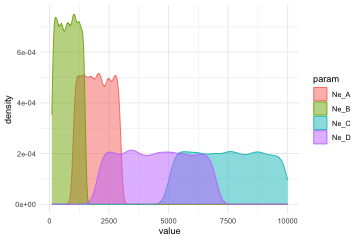
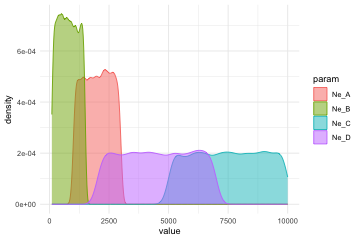
Update home

diff --git a/docs/index.html b/docs/index.html
@@ -69,7 +69,6 @@
 </div>
 <!-- badges: start -->
 
-
 <!-- badges: end -->
 <p>⚠⚠⚠</p>
 <p><strong>Please note that until a peer reviewed publication describing the <em>demografr</em> package is published, the software should be regarded as experimental and potentially unstable.</strong></p>
@@ -345,7 +344,7 @@
 <span><span class="co">#&gt; ╔═══════════════════════════╗</span></span>
 <span><span class="co">#&gt; ║TreeSequence               ║</span></span>
 <span><span class="co">#&gt; ╠═══════════════╤═══════════╣</span></span>
-<span><span class="co">#&gt; ║Trees          │      1,539║</span></span>
+<span><span class="co">#&gt; ║Trees          │      1,880║</span></span>
 <span><span class="co">#&gt; ╟───────────────┼───────────╢</span></span>
 <span><span class="co">#&gt; ║Sequence Length│  1,000,000║</span></span>
 <span><span class="co">#&gt; ╟───────────────┼───────────╢</span></span>
@@ -353,26 +352,26 @@
 <span><span class="co">#&gt; ╟───────────────┼───────────╢</span></span>
 <span><span class="co">#&gt; ║Sample Nodes   │        200║</span></span>
 <span><span class="co">#&gt; ╟───────────────┼───────────╢</span></span>
-<span><span class="co">#&gt; ║Total Size     │  444.2 KiB║</span></span>
+<span><span class="co">#&gt; ║Total Size     │  530.2 KiB║</span></span>
 <span><span class="co">#&gt; ╚═══════════════╧═══════════╝</span></span>
 <span><span class="co">#&gt; ╔═══════════╤═════╤═════════╤════════════╗</span></span>
 <span><span class="co">#&gt; ║Table      │Rows │Size     │Has Metadata║</span></span>
 <span><span class="co">#&gt; ╠═══════════╪═════╪═════════╪════════════╣</span></span>
-<span><span class="co">#&gt; ║Edges      │7,027│219.6 KiB│          No║</span></span>
+<span><span class="co">#&gt; ║Edges      │8,353│261.0 KiB│          No║</span></span>
 <span><span class="co">#&gt; ╟───────────┼─────┼─────────┼────────────╢</span></span>
 <span><span class="co">#&gt; ║Individuals│  100│  2.8 KiB│          No║</span></span>
 <span><span class="co">#&gt; ╟───────────┼─────┼─────────┼────────────╢</span></span>
 <span><span class="co">#&gt; ║Migrations │    0│  8 Bytes│          No║</span></span>
 <span><span class="co">#&gt; ╟───────────┼─────┼─────────┼────────────╢</span></span>
-<span><span class="co">#&gt; ║Mutations  │1,699│ 61.4 KiB│          No║</span></span>
+<span><span class="co">#&gt; ║Mutations  │2,164│ 78.2 KiB│          No║</span></span>
 <span><span class="co">#&gt; ╟───────────┼─────┼─────────┼────────────╢</span></span>
-<span><span class="co">#&gt; ║Nodes      │2,167│ 59.3 KiB│          No║</span></span>
+<span><span class="co">#&gt; ║Nodes      │2,391│ 65.4 KiB│          No║</span></span>
 <span><span class="co">#&gt; ╟───────────┼─────┼─────────┼────────────╢</span></span>
 <span><span class="co">#&gt; ║Populations│    4│331 Bytes│         Yes║</span></span>
 <span><span class="co">#&gt; ╟───────────┼─────┼─────────┼────────────╢</span></span>
 <span><span class="co">#&gt; ║Provenances│    2│  3.3 KiB│          No║</span></span>
 <span><span class="co">#&gt; ╟───────────┼─────┼─────────┼────────────╢</span></span>
-<span><span class="co">#&gt; ║Sites      │1,696│ 41.4 KiB│          No║</span></span>
+<span><span class="co">#&gt; ║Sites      │2,161│ 52.8 KiB│          No║</span></span>
 <span><span class="co">#&gt; ╚═══════════╧═════╧═════════╧════════════╝</span></span></code></pre></div>
 <p>With this one simulation data instance <code>ts</code> (in this case, a tree-sequence object of which the above-mentioned function <code><a href="reference/simulate_abc.html">simulate_abc()</a></code> would produce millions, making troubleshooting challenging and slow), we can apply individual summary statistic functions using another helper function <code><a href="reference/summarise_data.html">summarise_data()</a></code>:</p>
 <div class="sourceCode" id="cb15"><pre class="downlit sourceCode r">
@@ -381,27 +380,27 @@
 <span><span class="co">#&gt; # A tibble: 4 × 2</span></span>
 <span><span class="co">#&gt;   set   diversity</span></span>
 <span><span class="co">#&gt;   &lt;chr&gt;     &lt;dbl&gt;</span></span>
-<span><span class="co">#&gt; 1 A     0.0000480</span></span>
-<span><span class="co">#&gt; 2 B     0.0000487</span></span>
-<span><span class="co">#&gt; 3 C     0.000118 </span></span>
-<span><span class="co">#&gt; 4 D     0.0000885</span></span>
+<span><span class="co">#&gt; 1 A     0.0000797</span></span>
+<span><span class="co">#&gt; 2 B     0.0000587</span></span>
+<span><span class="co">#&gt; 3 C     0.000156 </span></span>
+<span><span class="co">#&gt; 4 D     0.000154 </span></span>
 <span><span class="co">#&gt; </span></span>
 <span><span class="co">#&gt; $divergence</span></span>
 <span><span class="co">#&gt; # A tibble: 6 × 3</span></span>
 <span><span class="co">#&gt;   x     y     divergence</span></span>
 <span><span class="co">#&gt;   &lt;chr&gt; &lt;chr&gt;      &lt;dbl&gt;</span></span>
-<span><span class="co">#&gt; 1 A     B       0.000188</span></span>
-<span><span class="co">#&gt; 2 A     C       0.000195</span></span>
-<span><span class="co">#&gt; 3 A     D       0.000191</span></span>
-<span><span class="co">#&gt; 4 B     C       0.000108</span></span>
-<span><span class="co">#&gt; 5 B     D       0.000108</span></span>
-<span><span class="co">#&gt; 6 C     D       0.000115</span></span>
+<span><span class="co">#&gt; 1 A     B       0.000237</span></span>
+<span><span class="co">#&gt; 2 A     C       0.000247</span></span>
+<span><span class="co">#&gt; 3 A     D       0.000247</span></span>
+<span><span class="co">#&gt; 4 B     C       0.000168</span></span>
+<span><span class="co">#&gt; 5 B     D       0.000194</span></span>
+<span><span class="co">#&gt; 6 C     D       0.000188</span></span>
 <span><span class="co">#&gt; </span></span>
 <span><span class="co">#&gt; $f4</span></span>
 <span><span class="co">#&gt; # A tibble: 1 × 5</span></span>
-<span><span class="co">#&gt;   W     X     Y     Z              f4</span></span>
-<span><span class="co">#&gt;   &lt;chr&gt; &lt;chr&gt; &lt;chr&gt; &lt;chr&gt;       &lt;dbl&gt;</span></span>
-<span><span class="co">#&gt; 1 A     B     C     D     -0.00000215</span></span></code></pre></div>
+<span><span class="co">#&gt;   W     X     Y     Z             f4</span></span>
+<span><span class="co">#&gt;   &lt;chr&gt; &lt;chr&gt; &lt;chr&gt; &lt;chr&gt;      &lt;dbl&gt;</span></span>
+<span><span class="co">#&gt; 1 A     B     C     D     -0.0000130</span></span></code></pre></div>
 <p>By comparing the format of this result to the observed data (given in the list <code>observed</code> at the beginning of this page), we can make sure that both simulated and observed summary statistics are mutually compatible, and can be thus directly compared in later steps of the ABC workflow.</p>
 <p><strong>See <a href="https://bodkan.net/demografr/reference/">the reference</a> for a complete overview of the functionality of this package.</strong></p>
 </div>

diff --git a/README.md b/README.md
@@ -6,9 +6,7 @@
 
 <!-- badges: start -->
 
-[![CRAN-version](https://www.r-pkg.org/badges/version/slendr)](https://cran.r-project.org/package=slendr) [![CRAN-downloads](https://cranlogs.r-pkg.org/badges/grand-total/slendr)](https://cran.r-project.org/package=slendr)
-
-[![R-CMD-check](https://github.com/bodkan/demografr/workflows/R-CMD-check/badge.svg)](https://github.com/bodkan/demografr/actions) [![Binder](http://mybinder.org/badge.svg)](http://beta.mybinder.org/v2/gh/bodkan/demografr/main?urlpath=rstudio) [![Coverage status](https://codecov.io/gh/bodkan/demografr/branch/main/graph/badge.svg)](https://app.codecov.io/github/bodkan/demografr?branch=main)
+[![CRAN-version](https://www.r-pkg.org/badges/version/slendr)](https://cran.r-project.org/package=slendr) [![CRAN-downloads](https://cranlogs.r-pkg.org/badges/grand-total/slendr)](https://cran.r-project.org/package=slendr) [![R-CMD-check](https://github.com/bodkan/demografr/workflows/R-CMD-check/badge.svg)](https://github.com/bodkan/demografr/actions) [![Binder](http://mybinder.org/badge.svg)](http://beta.mybinder.org/v2/gh/bodkan/demografr/main?urlpath=rstudio) [![Coverage status](https://codecov.io/gh/bodkan/demografr/branch/main/graph/badge.svg)](https://app.codecov.io/github/bodkan/demografr?branch=main)
 
 <!-- badges: end -->
 
@@ -441,7 +439,7 @@ ts
 #> ╔═══════════════════════════╗
 #> ║TreeSequence               ║
 #> ╠═══════════════╤═══════════╣
-#> ║Trees          │      1,539║
+#> ║Trees          │      1,880║
 #> ╟───────────────┼───────────╢
 #> ║Sequence Length│  1,000,000║
 #> ╟───────────────┼───────────╢
@@ -449,26 +447,26 @@ ts
 #> ╟───────────────┼───────────╢
 #> ║Sample Nodes   │        200║
 #> ╟───────────────┼───────────╢
-#> ║Total Size     │  444.2 KiB║
+#> ║Total Size     │  530.2 KiB║
 #> ╚═══════════════╧═══════════╝
 #> ╔═══════════╤═════╤═════════╤════════════╗
 #> ║Table      │Rows │Size     │Has Metadata║
 #> ╠═══════════╪═════╪═════════╪════════════╣
-#> ║Edges      │7,027│219.6 KiB│          No║
+#> ║Edges      │8,353│261.0 KiB│          No║
 #> ╟───────────┼─────┼─────────┼────────────╢
 #> ║Individuals│  100│  2.8 KiB│          No║
 #> ╟───────────┼─────┼─────────┼────────────╢
 #> ║Migrations │    0│  8 Bytes│          No║
 #> ╟───────────┼─────┼─────────┼────────────╢
-#> ║Mutations  │1,699│ 61.4 KiB│          No║
+#> ║Mutations  │2,164│ 78.2 KiB│          No║
 #> ╟───────────┼─────┼─────────┼────────────╢
-#> ║Nodes      │2,167│ 59.3 KiB│          No║
+#> ║Nodes      │2,391│ 65.4 KiB│          No║
 #> ╟───────────┼─────┼─────────┼────────────╢
 #> ║Populations│    4│331 Bytes│         Yes║
 #> ╟───────────┼─────┼─────────┼────────────╢
 #> ║Provenances│    2│  3.3 KiB│          No║
 #> ╟───────────┼─────┼─────────┼────────────╢
-#> ║Sites      │1,696│ 41.4 KiB│          No║
+#> ║Sites      │2,161│ 52.8 KiB│          No║
 #> ╚═══════════╧═════╧═════════╧════════════╝
 ```
 
@@ -486,27 +484,27 @@ summarise_data(ts, functions)
 #> # A tibble: 4 × 2
 #>   set   diversity
 #>   <chr>     <dbl>
-#> 1 A     0.0000480
-#> 2 B     0.0000487
-#> 3 C     0.000118 
-#> 4 D     0.0000885
+#> 1 A     0.0000797
+#> 2 B     0.0000587
+#> 3 C     0.000156 
+#> 4 D     0.000154 
 #> 
 #> $divergence
 #> # A tibble: 6 × 3
 #>   x     y     divergence
 #>   <chr> <chr>      <dbl>
-#> 1 A     B       0.000188
-#> 2 A     C       0.000195
-#> 3 A     D       0.000191
-#> 4 B     C       0.000108
-#> 5 B     D       0.000108
-#> 6 C     D       0.000115
+#> 1 A     B       0.000237
+#> 2 A     C       0.000247
+#> 3 A     D       0.000247
+#> 4 B     C       0.000168
+#> 5 B     D       0.000194
+#> 6 C     D       0.000188
 #> 
 #> $f4
 #> # A tibble: 1 × 5
-#>   W     X     Y     Z              f4
-#>   <chr> <chr> <chr> <chr>       <dbl>
-#> 1 A     B     C     D     -0.00000215
+#>   W     X     Y     Z             f4
+#>   <chr> <chr> <chr> <chr>      <dbl>
+#> 1 A     B     C     D     -0.0000130
 ```
 
 By comparing the format of this result to the observed data (given in the
